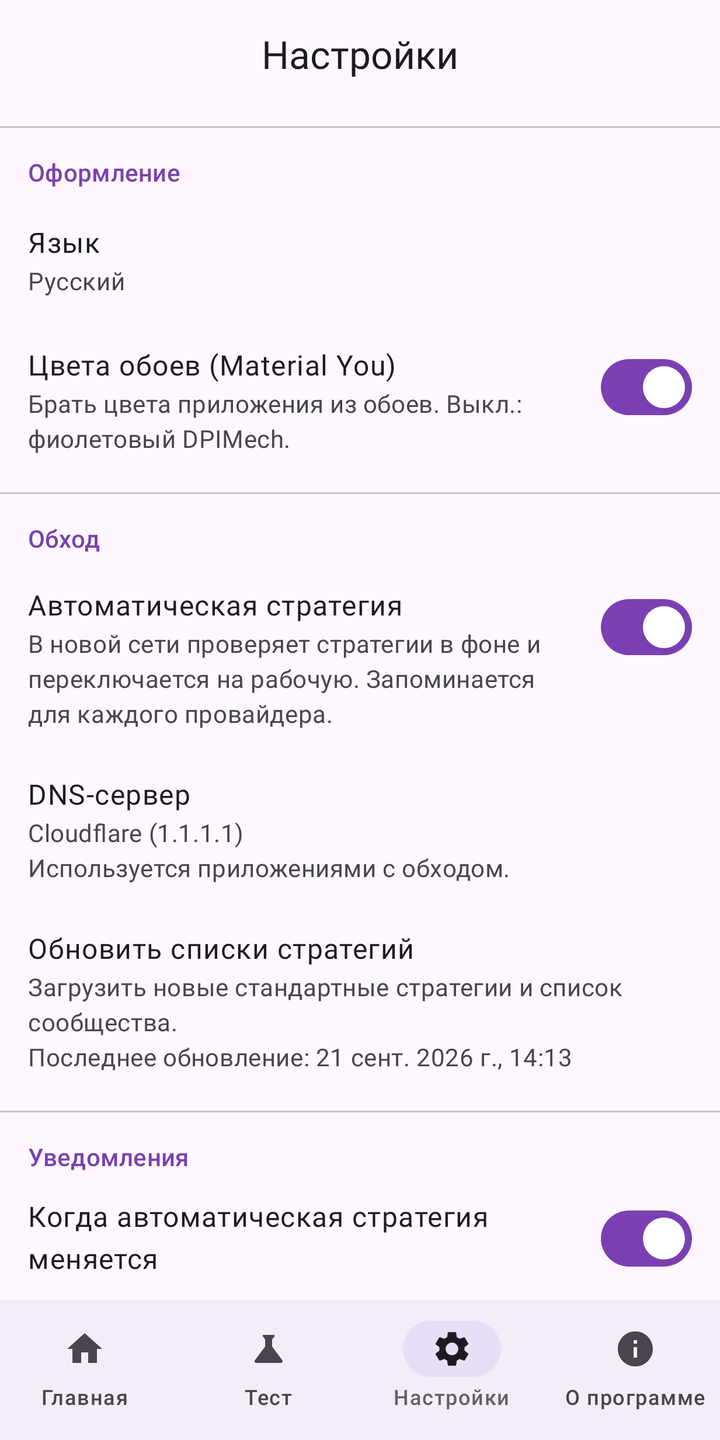
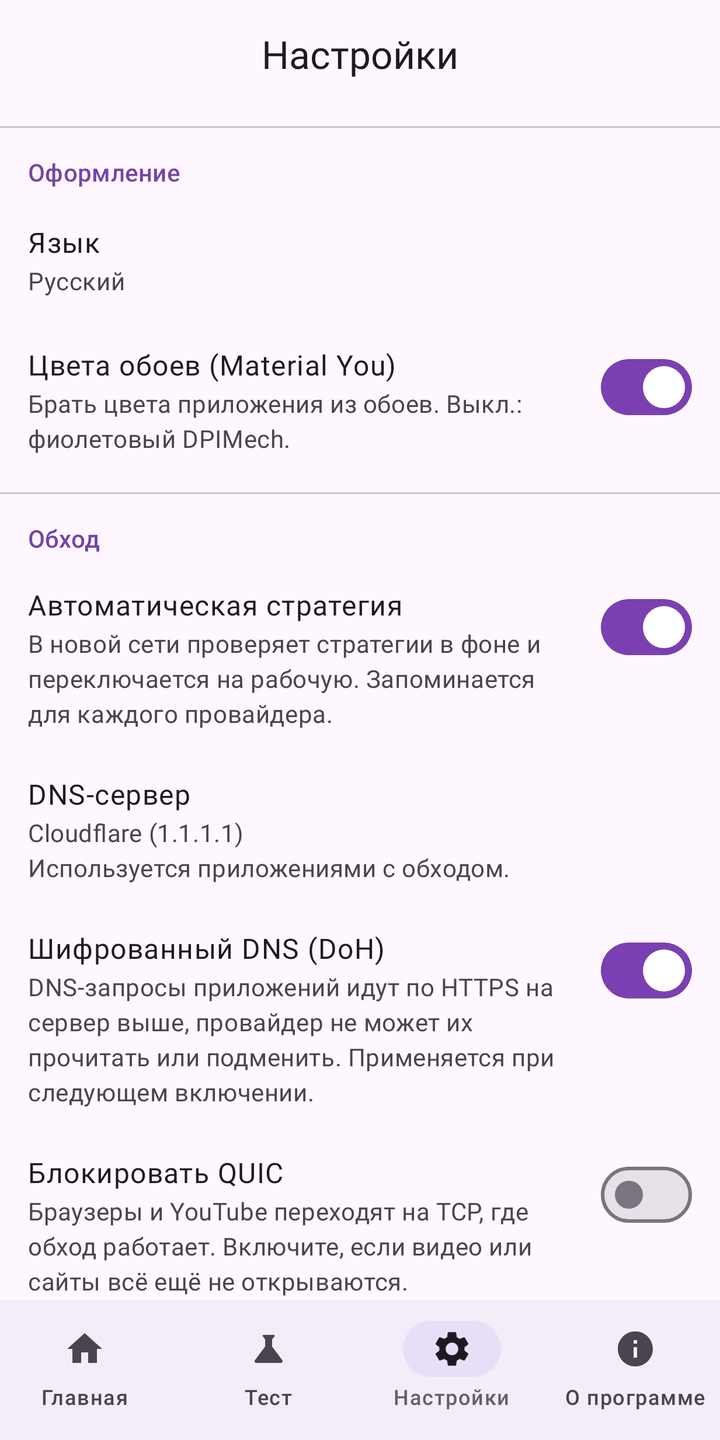
Store listing and release notes for v0.1.0
Descriptions in en/tr/ru now list encrypted DNS, the QUIC block, live
traffic and ping, widgets and shortcuts; changelog 1.txt in all three
languages; store screenshots re-rendered with the new home. RELEASING.md
gets the PowerShell steps for the release key.

Changed region(s): [[0.0306, 0.6562, 0.7944, 0.9062], [0.825, 0.8125, 0.9778, 0.9062], [0.825, 0.6562, 0.9778, 0.7188]]

diff --git a/docs/PROGRESS.md b/docs/PROGRESS.md
@@ -43,6 +43,16 @@
 
 ## Work log
 
+### 2026-10-01 — Release preparation for v0.1.0
+- Done: store descriptions (en/tr/ru) list DoH, QUIC block, live traffic and ping, widgets and
+  shortcuts; changelog 1.txt in all three languages (≤ 500 bytes); store screenshots re-rendered
+  with the new home; Windows (PowerShell) steps for the release key in RELEASING.md.
+- Verified: unsigned `assembleRelease` with R8 builds; dexdump shows `TProxy` natives and the new
+  services/activities kept; four ABIs carry libciadpi and libhev-socks5-tunnel.
+- Next (owner): release key + four secrets, then tag `v0.1.0`; then the certificate hash goes
+  into `docs/fdroid/…yml` and the fdroiddata merge request (docs/FDROID.md). The minified release
+  build has not been run on a phone yet: install the release APK and try it before the MR.
+
 ### 2026-10-01 — Phase 3b: ping, Live Updates, per-profile widgets, more shortcuts
 - Done: average ping (connect + TLS handshake through ciadpi to the profile's sites, `Ping` +
   `SiteCheck.measure`) 3 s after start, every 5 min, after a strategy switch and from the refresh

diff --git a/docs/RELEASING.md b/docs/RELEASING.md
@@ -12,6 +12,18 @@ keytool -genkeypair -v -keystore dpimech-release.jks -storetype PKCS12 \
 base64 -w0 dpimech-release.jks   # → DPIMECH_KEYSTORE_BASE64
 ```
 
+On Windows (PowerShell). `keytool` comes with any JDK; Android Studio has one in
+`C:\Program Files\Android\Android Studio\jbr\bin`:
+
+```powershell
+& "C:\Program Files\Android\Android Studio\jbr\bin\keytool.exe" -genkeypair -v `
+  -keystore dpimech-release.jks -storetype PKCS12 -alias dpimech -keyalg RSA -keysize 4096 `
+  -validity 10000 -dname "CN=Halil Kahraman, O=DPIMech"
+[Convert]::ToBase64String([IO.File]::ReadAllBytes("$PWD\dpimech-release.jks")) | Set-Clipboard
+```
+
+The second line copies the `DPIMECH_KEYSTORE_BASE64` value to the clipboard.
+
 Repository → Settings → Secrets and variables → Actions → New repository secret:
 
 | Secret | Value |
